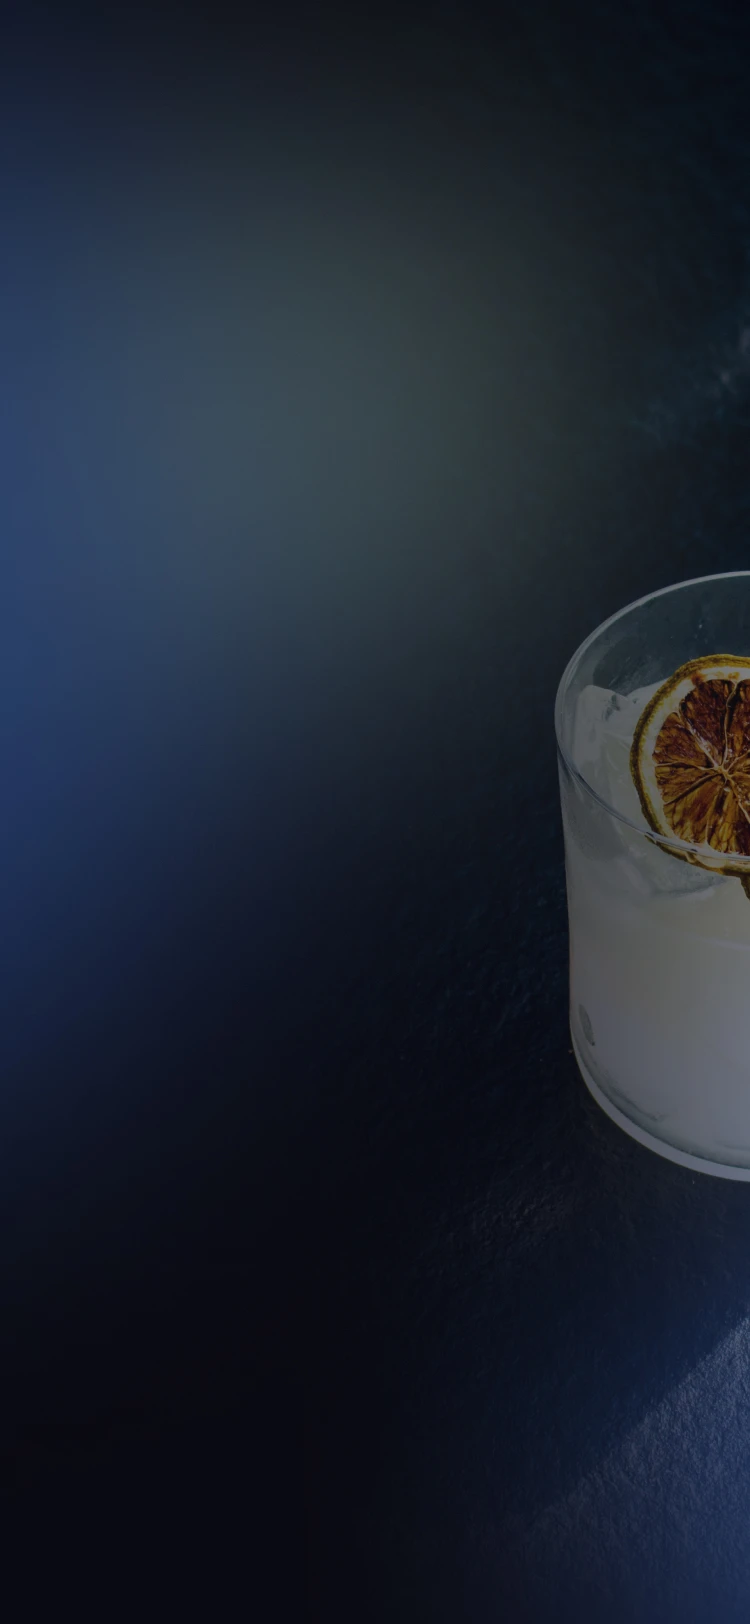
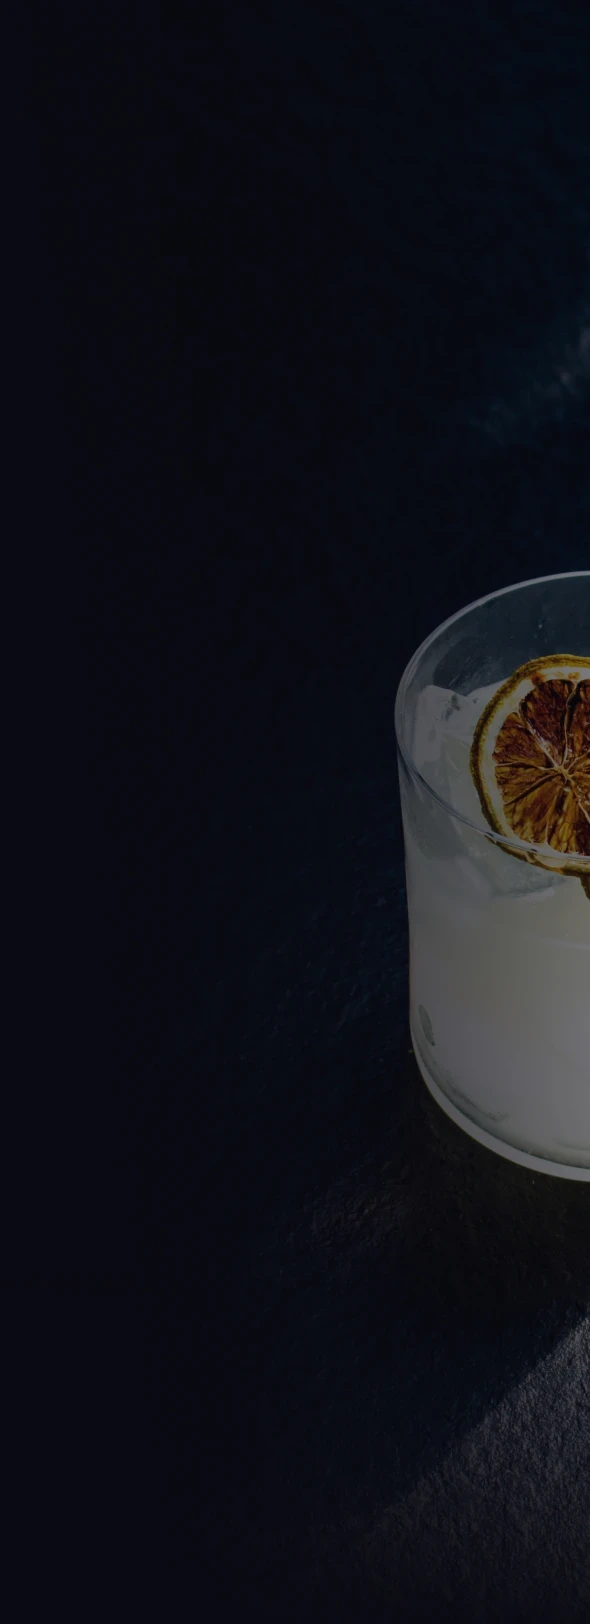
feat: add retina baground and webkit

diff --git a/src/components/Welcome/WelcomePage.styled.jsx b/src/components/Welcome/WelcomePage.styled.jsx
@@ -1,8 +1,11 @@
 import styled from '@emotion/styled';
-import desktop from '../../img/def/des.jpg';
-import tablet from '../../img/def/tab.jpg';
-import mobile from '../../img/def/mob.jpg';
 import { theme } from 'styles';
+import desktopWebp from '../../img/welcome/des.webp';
+import desktopWebp2x from '../../img/welcome/des_@2x.webp';
+import tabletWebp from '../../img/welcome/tab.webp';
+import tabletWebp2x from '../../img/welcome/tab_@2x.webp';
+import mobileWebp from '../../img/welcome/mob.webp';
+import mobileWebp2x from '../../img/welcome/mob_@2x.webp';
 
 export const Wrapper = styled.div`
   background: linear-gradient(
@@ -19,18 +22,8 @@ export const BackgroundGradient = styled.div`
       rgba(10, 10, 17, 0.2) 0%,
       rgba(10, 10, 17, 0.2) 100%
     ),
-    linear-gradient(1deg, #0a0a11 -0.56%, rgba(10, 10, 17, 0) 21.93%),
-    linear-gradient(82deg, #0a0a11 11.89%, rgba(10, 10, 17, 0) 82.65%);
-
-  @media (min-width: 768px) {
-    background: linear-gradient(
-        0deg,
-        rgba(10, 10, 17, 0.2) 0%,
-        rgba(10, 10, 17, 0.2) 100%
-      ),
-      linear-gradient(1deg, #0a0a11 -0.56%, rgba(10, 10, 17, 0) 21.93%),
-      linear-gradient(78deg, #0a0a11 14.73%, rgba(10, 10, 17, 0) 52.34%);
-  }
+    linear-gradient(1deg, #0a0a11 -0.56%, rgba(10, 10, 17, 20) 21.93%),
+    linear-gradient(85deg, #060609 5.92%, rgba(10, 10, 17, 20) 51.07%);
 
   @media (min-width: 1200px) {
     background: linear-gradient(
@@ -132,55 +125,47 @@ export const ContainerWelcome = styled.div`
 `;
 
 export const BackgroundImage = styled.div`
-  /* background: linear-gradient(
-      0deg,
-      rgba(10, 10, 17, 0.2) 0%,
-      rgba(10, 10, 17, 0.2) 100%
-    ),
-    linear-gradient(1deg, #0a0a11 -0.56%, rgba(10, 10, 17, 0) 21.93%),
-    linear-gradient(82deg, #0a0a11 11.89%, rgba(10, 10, 17, 0) 82.65%),
-    url('${mobile}'),
-    lightgray -3px -13.319px / 100.511% 101.679% no-repeat/ right/ contain; */
-
   position: relative;
-  background-image: url('${mobile}');
+  background-image: url('${mobileWebp}');
   background-repeat: no-repeat;
   background-size: contain;
   background-position: right;
   overflow: hidden;
 
   @media (min-width: 768px) {
-    background-image: url('${tablet}');
+    background-image: url('${tabletWebp}');
   }
 
   @media (min-width: 1200px) {
-    background-image: url('${desktop}');
+    background-image: url('${desktopWebp}');
   }
 
-  /* \\\\\\\\\\\\\\\\\\\\\\\\\\\\ */
+  @media (-webkit-min-device-pixel-ratio: 2), (min-resolution: 192dpi) {
+    background-image: url('${mobileWebp2x}');
+    background-image: -webkit-image-set(
+      url('${mobileWebp2x}') 2x,
+      url('${mobileWebp}') 1x
+    );
 
-  /* background-image: url('${desktop}');
-  background-repeat: no-repeat;
-  background-size: cover;
+    @media (min-width: 768px) {
+      background-image: url('${tabletWebp2x}');
+      background-image: -webkit-image-set(
+        url('${tabletWebp2x}') 2x,
+        url('${tabletWebp}') 1x
+      );
+    }
 
-  background-image: url('${mobile}');
-  background-repeat: no-repeat;
-  background-size: contain;
-  background-position: right;
-
-  @media (min-width: 768px) {
-    background-image: url('${tablet}');
+    @media (min-width: 1200px) {
+      background-image: url('${desktopWebp2x}');
+      background-image: -webkit-image-set(
+        url('${desktopWebp2x}') 2x,
+        url('${desktopWebp}') 1x
+      );
+    }
   }
-
-  @media (min-width: 1200px) {
-    background-image: url('${desktop}');
-    background-size: cover;
-  } */
 `;
 
-export const SectionWelcome = styled.section`
-  /* outline: 1px solid tomato; */
-`;
+export const SectionWelcome = styled.section``;
 
 export const WelcomeWrap = styled.div`
   max-width: 485px;
